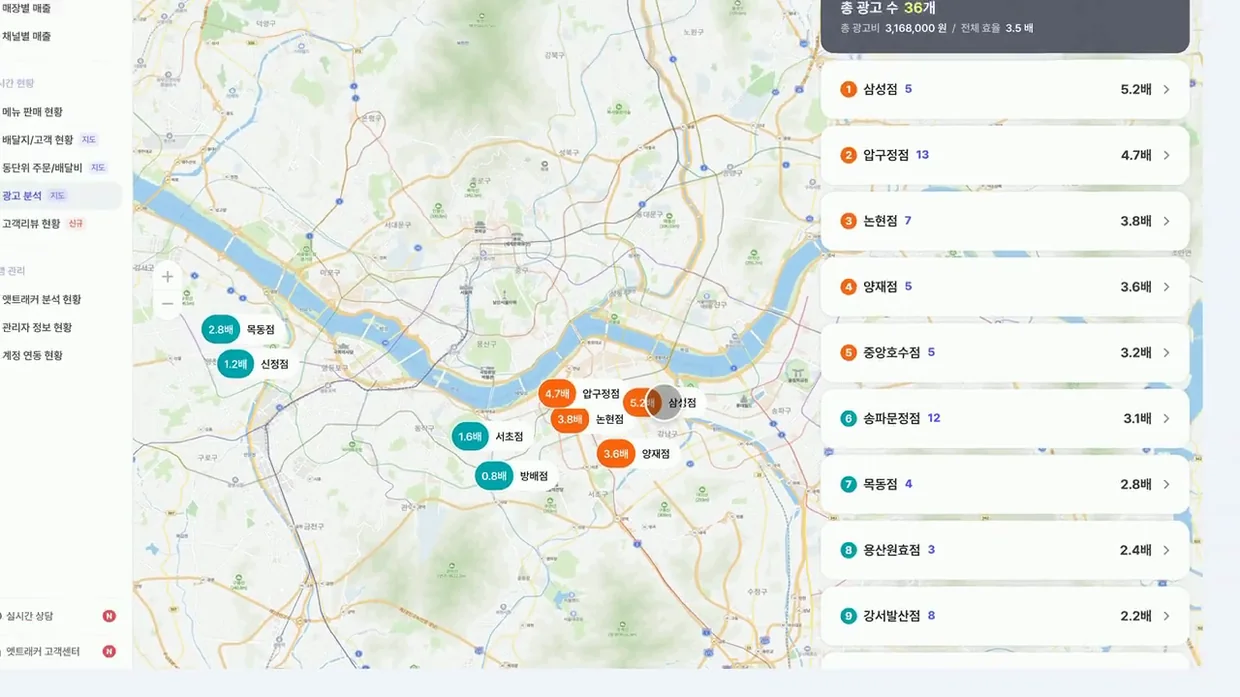
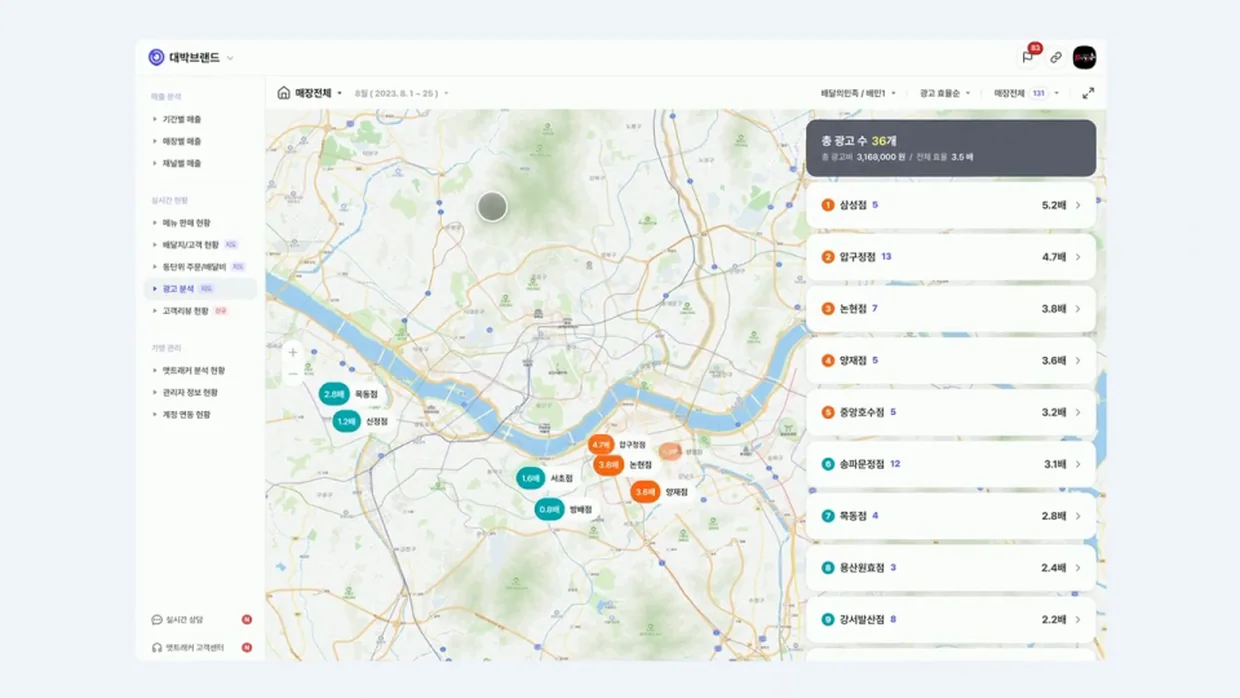
Solution 모션을 애니메이션 WebP 로 교체 — 자동재생 정책을 벗어난다
비디오 요소는 사파리·iOS 에서 자동재생이 정책으로 막히면 멈춘 채 흐린 화면과
재생 버튼이 남는다. 그 버튼은 UA 섀도우 DOM 이라 CSS 로 확실히 지울 수 없다.
이미지는 그 정책의 대상이 아니라 언제나 움직이고 버튼도 생기지 않는다.

  sol02-flow.webp  960x540 15fps 241프레임  3.66 MB
  sol03-flow.webp  960x540 15fps 290프레임  3.00 MB
  sol04-flow.webp  960x540 15fps 272프레임  1.45 MB
                                     합계   8.11 MB  (mp4 3개는 5.30 MB)

대가: 15fps 라 60fps 보다 덜 부드럽고, 960px 라 1240 슬롯에서 조금 덜 선명하며,
멈출 수 없고, mp4 보다 2.8MB 무겁다.

- <video>/<source> 와 .sol__cover, 재생 버튼 숨김 CSS 를 모두 걷어냈다
- case-video.js 는 prefers-reduced-motion 일 때 정지본으로 바꾸는 일만 한다.
  애니메이션 이미지는 멈출 수 없어 파일을 통째로 바꾼다
- 빌드: 700KB 넘는 자산은 base64 로 박지 않고 동반 파일로 올린다.
  전부 인라인하면 아티팩트 페이지가 16.4MB 로 한도(16MB)를 넘었다

검증: 세 이미지 모두 패널을 정확히 채운다 (1152x648 = 1152x648).
비디오 요소 0개. 1440 에서 14개 섹션 전부 피그마와 일치, 합계 13527.

diff --git a/assets/js/case-video.js b/assets/js/case-video.js
@@ -1,52 +1,30 @@
-/* 영상은 autoplay 속성만으로 재생된다. toss.tech 와 같은 구성이다.
-   (preload="metadata", poster 없음, <source> 에 type 없음, 덮개 없음)
+/* Solution 패널의 모션은 애니메이션 WebP 이미지다.
 
-   이 스크립트는 거들기만 한다.
-   - 재생이 아직 안 붙었으면 조용히 몇 번 더 play() 를 시도한다.
-   - 탭이 다시 보이면 한 번 더 시도한다.
-   - 자동재생이 끝내 막히는 환경을 대비해 첫 입력(클릭·터치·키)을 한 번 듣고
-     그때 페이지의 영상을 모두 재생시킨다. 보이는 버튼은 두지 않는다.
-   - prefers-reduced-motion 이면 자동재생을 끈다.
+   비디오 요소를 쓰지 않는 이유.
+   사파리·iOS 는 자동재생을 정책으로 막는 경우가 있어(저전력 모드 등) 영상이
+   멈춘 채 흐린 화면과 재생 버튼이 남는다. 그 버튼은 UA 섀도우 DOM 이라
+   CSS 로 확실히 지울 수도 없다. 이미지는 그 정책의 대상이 아니라 언제나
+   움직이고, 버튼도 생기지 않는다.
 
-   영상 위에 무엇도 덮지 않는다. 덮개를 깔았더니 재생이 되는지조차 확인할 수
-   없었고, 토스와 다른 유일한 지점이기도 했다. */
+   그래서 이 스크립트가 할 일은 하나뿐이다.
+   prefers-reduced-motion 을 켠 사용자에게는 움직이지 않는 정지본으로 바꾼다.
+   애니메이션 이미지는 멈출 수 없으므로 아예 다른 파일로 교체한다. */
 (function () {
-  var vids = [].slice.call(document.querySelectorAll('video[data-autoplay]'));
-  if (!vids.length) return;
+  var mq = window.matchMedia && window.matchMedia('(prefers-reduced-motion: reduce)');
+  if (!mq) return;
 
-  if (window.matchMedia && window.matchMedia('(prefers-reduced-motion: reduce)').matches) {
-    vids.forEach(function (v) { v.removeAttribute('autoplay'); v.pause(); });
-    return;
-  }
-
-  function nudge(v) {
-    if (!v.paused || document.visibilityState === 'hidden') return;
-    var p = v.play();
-    if (p && p.catch) p.catch(function () {});
-  }
-  function all() { vids.forEach(nudge); }
-
-  vids.forEach(function (v) {
-    ['loadeddata', 'canplay', 'canplaythrough'].forEach(function (e) {
-      v.addEventListener(e, function () { nudge(v); });
+  function apply() {
+    var imgs = [].slice.call(document.querySelectorAll('img.sol__anim[data-still]'));
+    imgs.forEach(function (img) {
+      var still = img.getAttribute('data-still');
+      var moving = img.getAttribute('data-moving') || img.getAttribute('src');
+      if (!img.getAttribute('data-moving')) img.setAttribute('data-moving', moving);
+      var want = mq.matches ? still : img.getAttribute('data-moving');
+      if (img.getAttribute('src') !== want) img.setAttribute('src', want);
     });
-  });
-
-  [0, 500, 1000, 2000, 4000, 8000, 16000].forEach(function (ms) { setTimeout(all, ms); });
-  document.addEventListener('visibilitychange', all);
-
-  /* 자동재생이 막힌 환경의 마지막 보루 — 첫 제스처 한 번으로 전부 푼다 */
-  var armed = true;
-  function unlock() {
-    if (!armed) return;
-    armed = false;
-    ['pointerdown', 'touchstart', 'keydown'].forEach(function (e) {
-      document.removeEventListener(e, unlock, true);
-    });
-    all();
-    setTimeout(all, 300);
   }
-  ['pointerdown', 'touchstart', 'keydown'].forEach(function (e) {
-    document.addEventListener(e, unlock, true);
-  });
+
+  apply();
+  if (mq.addEventListener) mq.addEventListener('change', apply);
+  else if (mq.addListener) mq.addListener(apply);
 }());

diff --git a/work-attracker.html b/work-attracker.html
@@ -314,11 +314,12 @@
         </div>
       </div>
       <div class="panel panel--v">
-        <video class="sol__video" data-autoplay autoplay muted loop playsinline preload="metadata"
-          width="1280" height="720"
-          aria-label="전체 광고 현황에서 개별 광고까지 좁혀 들어가는 탐색 흐름">
-          <source src="assets/video/attracker/sol02-flow.720.mp4" />
-        </video>
+        <!-- 애니메이션 WebP. 비디오 요소는 브라우저 자동재생 정책에 걸려
+             저전력 모드 등에서 멈추지만, 이미지는 항상 움직인다.
+             prefers-reduced-motion 이면 case-video.js 가 정지본으로 바꾼다. -->
+        <img class="sol__anim" src="assets/img/attracker/sol02-flow.webp"
+          data-still="assets/img/attracker/sol02-poster.webp"
+          width="960" height="540" alt="전체 광고 현황에서 개별 광고까지 좁혀 들어가는 탐색 흐름" decoding="async" />
       </div>
     </div>
   </section>
@@ -336,11 +337,12 @@
         </div>
       </div>
       <div class="panel panel--v">
-        <video class="sol__video" data-autoplay autoplay muted loop playsinline preload="metadata"
-          width="1280" height="720"
-          aria-label="지표 필터와 지도 반경을 바꿔 광고 성과를 비교하는 흐름">
-          <source src="assets/video/attracker/sol03-flow.720.mp4" />
-        </video>
+        <!-- 애니메이션 WebP. 비디오 요소는 브라우저 자동재생 정책에 걸려
+             저전력 모드 등에서 멈추지만, 이미지는 항상 움직인다.
+             prefers-reduced-motion 이면 case-video.js 가 정지본으로 바꾼다. -->
+        <img class="sol__anim" src="assets/img/attracker/sol03-flow.webp"
+          data-still="assets/img/attracker/sol03-poster.webp"
+          width="960" height="540" alt="지표 필터와 지도 반경을 바꿔 광고 성과를 비교하는 흐름" decoding="async" />
       </div>
     </div>
   </section>
@@ -358,11 +360,12 @@
         </div>
       </div>
       <div class="panel panel--v">
-        <video class="sol__video" data-autoplay autoplay muted loop playsinline preload="metadata"
-          width="1280" height="720"
-          aria-label="모바일 광고 분석 흐름 — 지도에서 핀을 선택하고 바텀시트로 성과를 확인한 뒤 필터를 적용">
-          <source src="assets/video/attracker/mobile-flow.720.mp4" />
-        </video>
+        <!-- 애니메이션 WebP. 비디오 요소는 브라우저 자동재생 정책에 걸려
+             저전력 모드 등에서 멈추지만, 이미지는 항상 움직인다.
+             prefers-reduced-motion 이면 case-video.js 가 정지본으로 바꾼다. -->
+        <img class="sol__anim" src="assets/img/attracker/sol04-flow.webp"
+          data-still="assets/img/attracker/sol04-poster.webp"
+          width="960" height="540" alt="모바일 광고 분석 흐름 — 지도에서 핀을 선택하고 바텀시트로 성과를 확인한 뒤 필터를 적용" decoding="async" />
       </div>
     </div>
   </section>

diff --git a/assets/css/case.css b/assets/css/case.css
@@ -728,29 +728,18 @@
 .s-sol .panel { position: relative; height: auto; aspect-ratio: 1240 / 698; margin-top: 56px; overflow: hidden; }
 
 
-.sol__video {
+/* Solution 패널의 애니메이션 WebP.
+   비디오 요소 대신 이미지를 쓴다. 자동재생 정책에 걸리지 않아
+   저전력 모드에서도 항상 움직이고, 브라우저가 그리는 재생 버튼도 없다. */
+.sol__anim {
   width: 100%;
   height: 100%;
   object-fit: cover;
   display: block;
-  /* 첫 프레임이 그려지기 전 빈 박스가 회색으로 보이지 않도록 패널과 같은 색 */
+  /* 받아오는 동안 빈 박스가 회색으로 보이지 않도록 패널과 같은 색 */
   background: var(--nv-surface-v);
 }
 
-/* 브라우저가 얹는 재생 버튼 오버레이를 지운다.
-   사파리는 자동재생을 막으면 화면을 흐리게 깔고 가운데에 재생 버튼을 띄우는데
-   그 버튼은 UA 섀도우 DOM 이라 이 의사요소로만 끌 수 있다.
-   모르는 의사요소가 섞이면 선택자 목록 전체가 무효가 되므로 규칙을 하나씩 쓴다. */
-.sol__video::-webkit-media-controls { display: none !important; }
-.sol__video::-webkit-media-controls-panel { display: none !important; }
-.sol__video::-webkit-media-controls-overlay-play-button { display: none !important; }
-.sol__video::-webkit-media-controls-play-button { display: none !important; }
-.sol__video::-webkit-media-controls-enclosure { display: none !important; }
-.sol__video::-webkit-media-controls-overlay-enclosure { display: none !important; }
-.sol__video::-webkit-media-controls-start-playback-button {
-  display: none !important;
-  -webkit-appearance: none;
-}
 
 /* ---- Solution 01 — AS-IS / TO-BE 비교 (패널 1240x653) ---- */
 .s-sol1 .panel {

diff --git a/build/artifact.py b/build/artifact.py
@@ -26,6 +26,7 @@ MIME = {'.svg': 'image/svg+xml', '.png': 'image/png', '.jpg': 'image/jpeg',
         '.jpeg': 'image/jpeg', '.webp': 'image/webp', '.gif': 'image/gif',
         '.avif': 'image/avif'}
 COPY_EXT = {'.mp4', '.webm', '.mov', '.m4v', '.ogg', '.mp3', '.wav'}
+BIG_ASSET = 700 * 1024      # 이보다 큰 자산은 인라인하지 않고 동반 파일로
 
 copied = set()
 
@@ -97,7 +98,10 @@ def build(page, fonts, full_doc=False):
         p = SITE + ref
         if not os.path.exists(p):
             raise SystemExit('에셋 없음: ' + ref)
-        if os.path.splitext(ref)[1].lower() in COPY_EXT:
+        # 큰 파일은 base64 로 박지 않고 따로 올린다.
+        # 애니메이션 WebP 가 수 MB 라 전부 박으면 페이지가 아티팩트 한도(16MB)를 넘는다.
+        if (os.path.splitext(ref)[1].lower() in COPY_EXT
+                or os.path.getsize(p) > BIG_ASSET):
             dst = os.path.join(OUT_DIR, ref)
             os.makedirs(os.path.dirname(dst), exist_ok=True)
             shutil.copy2(p, dst)

diff --git a/build/standalone.py b/build/standalone.py
@@ -24,6 +24,7 @@ MIME = {'.svg': 'image/svg+xml', '.png': 'image/png', '.jpg': 'image/jpeg',
 
 # 인라인하지 않고 그대로 복사하는 것들 (용량이 크고 스트리밍이 필요하다)
 COPY_EXT = {'.mp4', '.webm', '.mov', '.m4v', '.ogg', '.mp3', '.wav'}
+BIG_ASSET = 700 * 1024      # 이보다 큰 자산은 인라인하지 않고 동반 파일로
 copied = set()
 
 
@@ -97,7 +98,10 @@ def build(page):
         p = SITE + ref
         if not os.path.exists(p):
             raise SystemExit('에셋 없음: ' + ref)
-        if os.path.splitext(ref)[1].lower() in COPY_EXT:
+        # 큰 파일은 base64 로 박지 않고 따로 올린다.
+        # 애니메이션 WebP 가 수 MB 라 전부 박으면 페이지가 아티팩트 한도(16MB)를 넘는다.
+        if (os.path.splitext(ref)[1].lower() in COPY_EXT
+                or os.path.getsize(p) > BIG_ASSET):
             dst = os.path.join(OUT_DIR, ref)
             os.makedirs(os.path.dirname(dst), exist_ok=True)
             shutil.copy2(p, dst)
